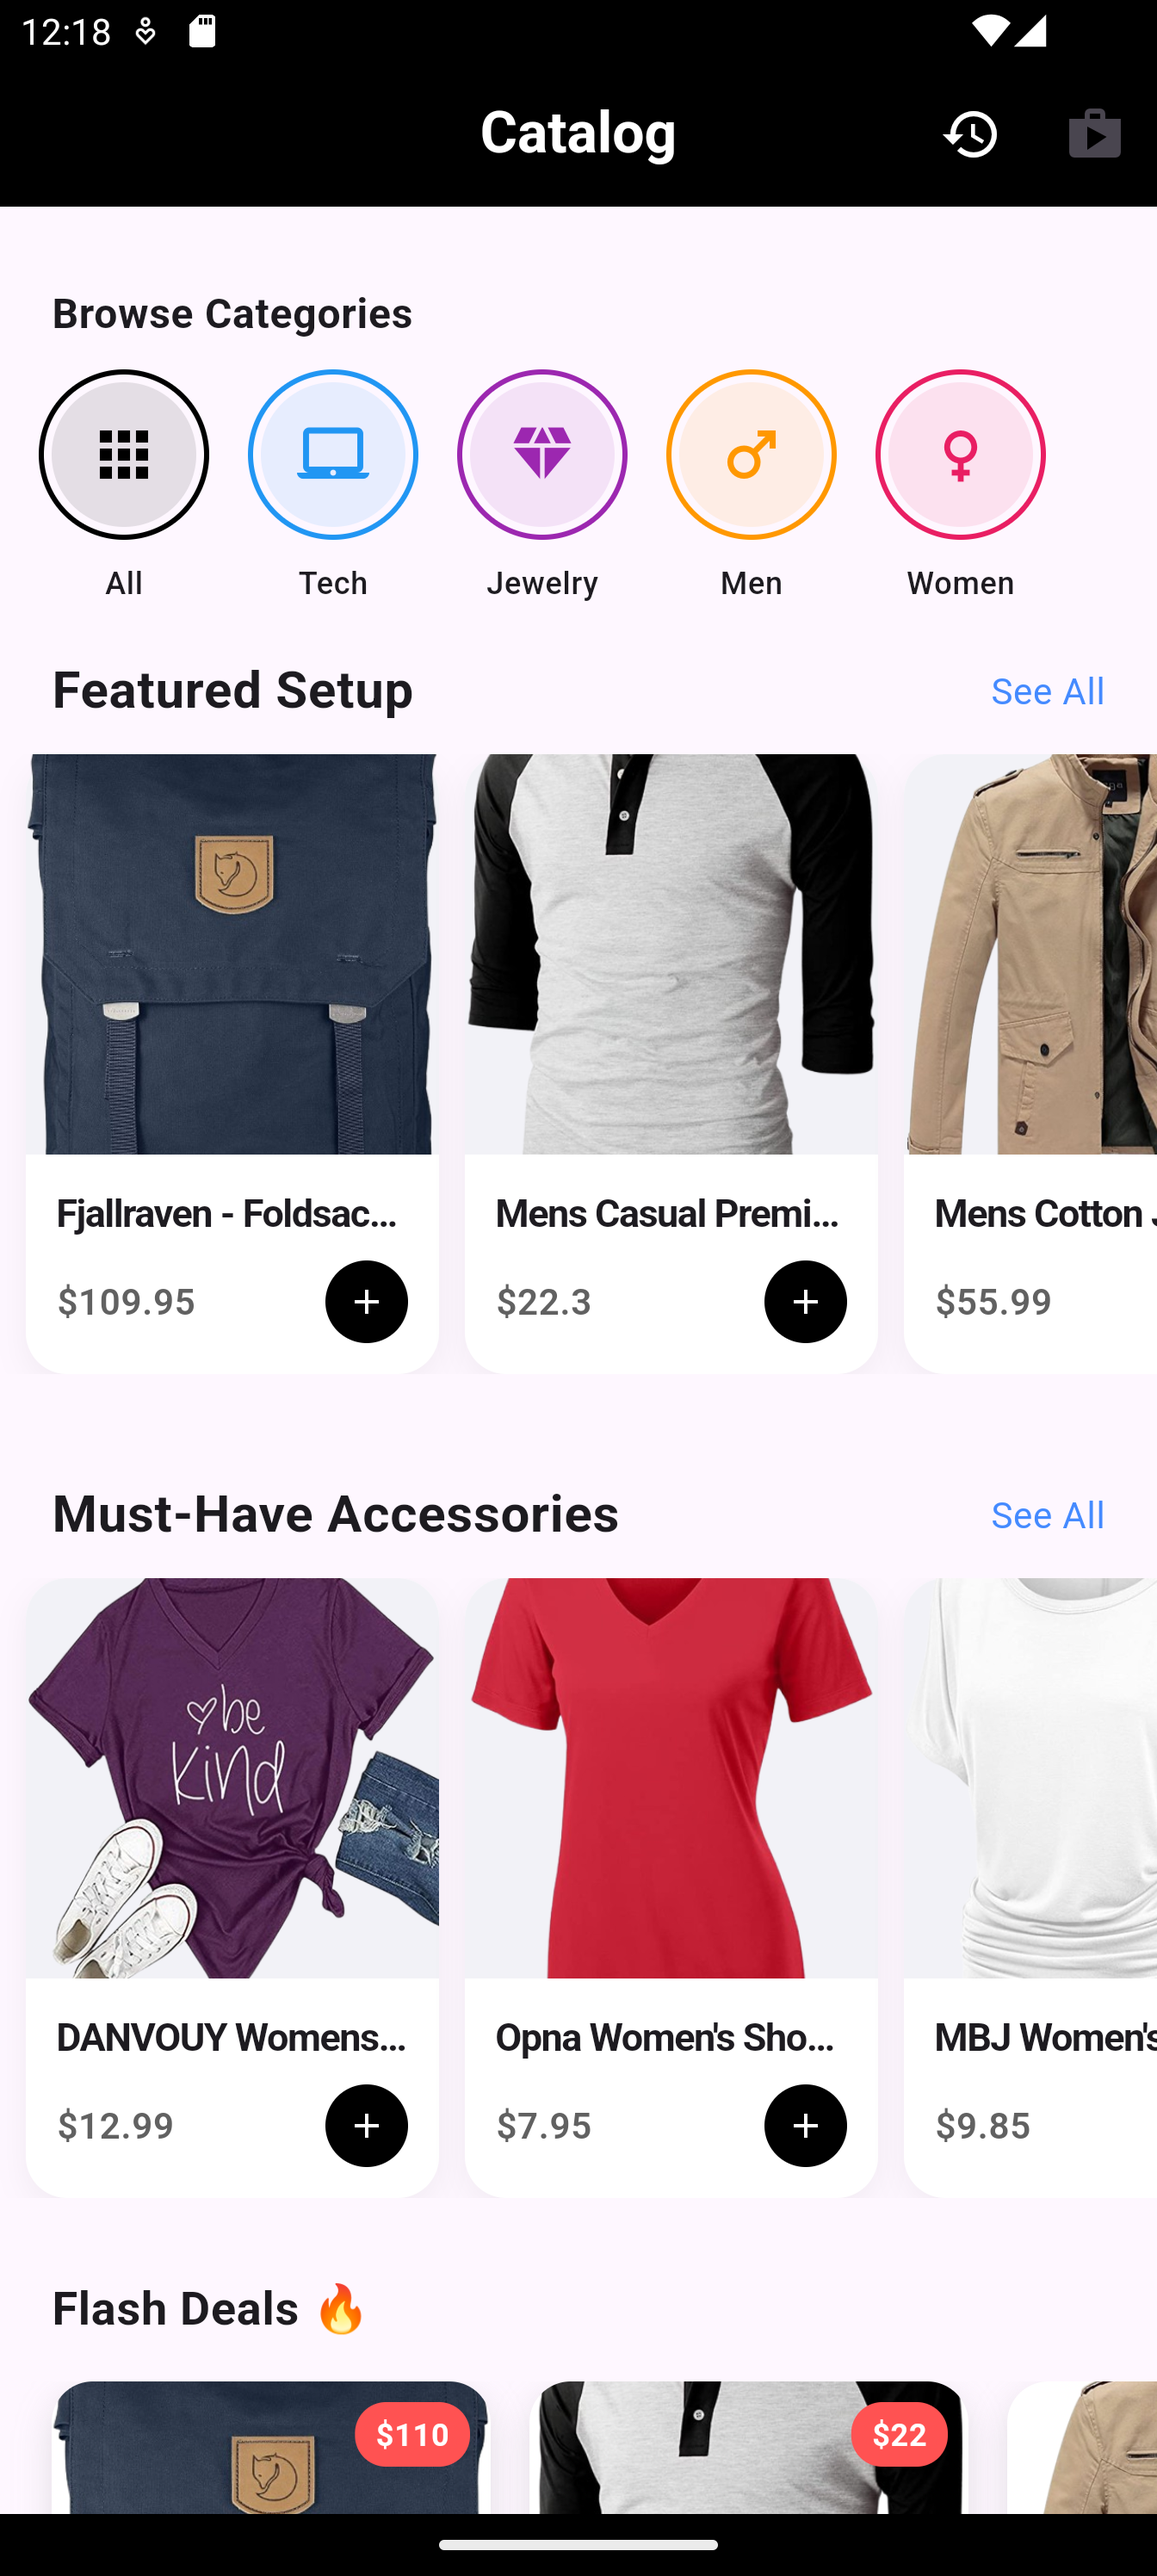
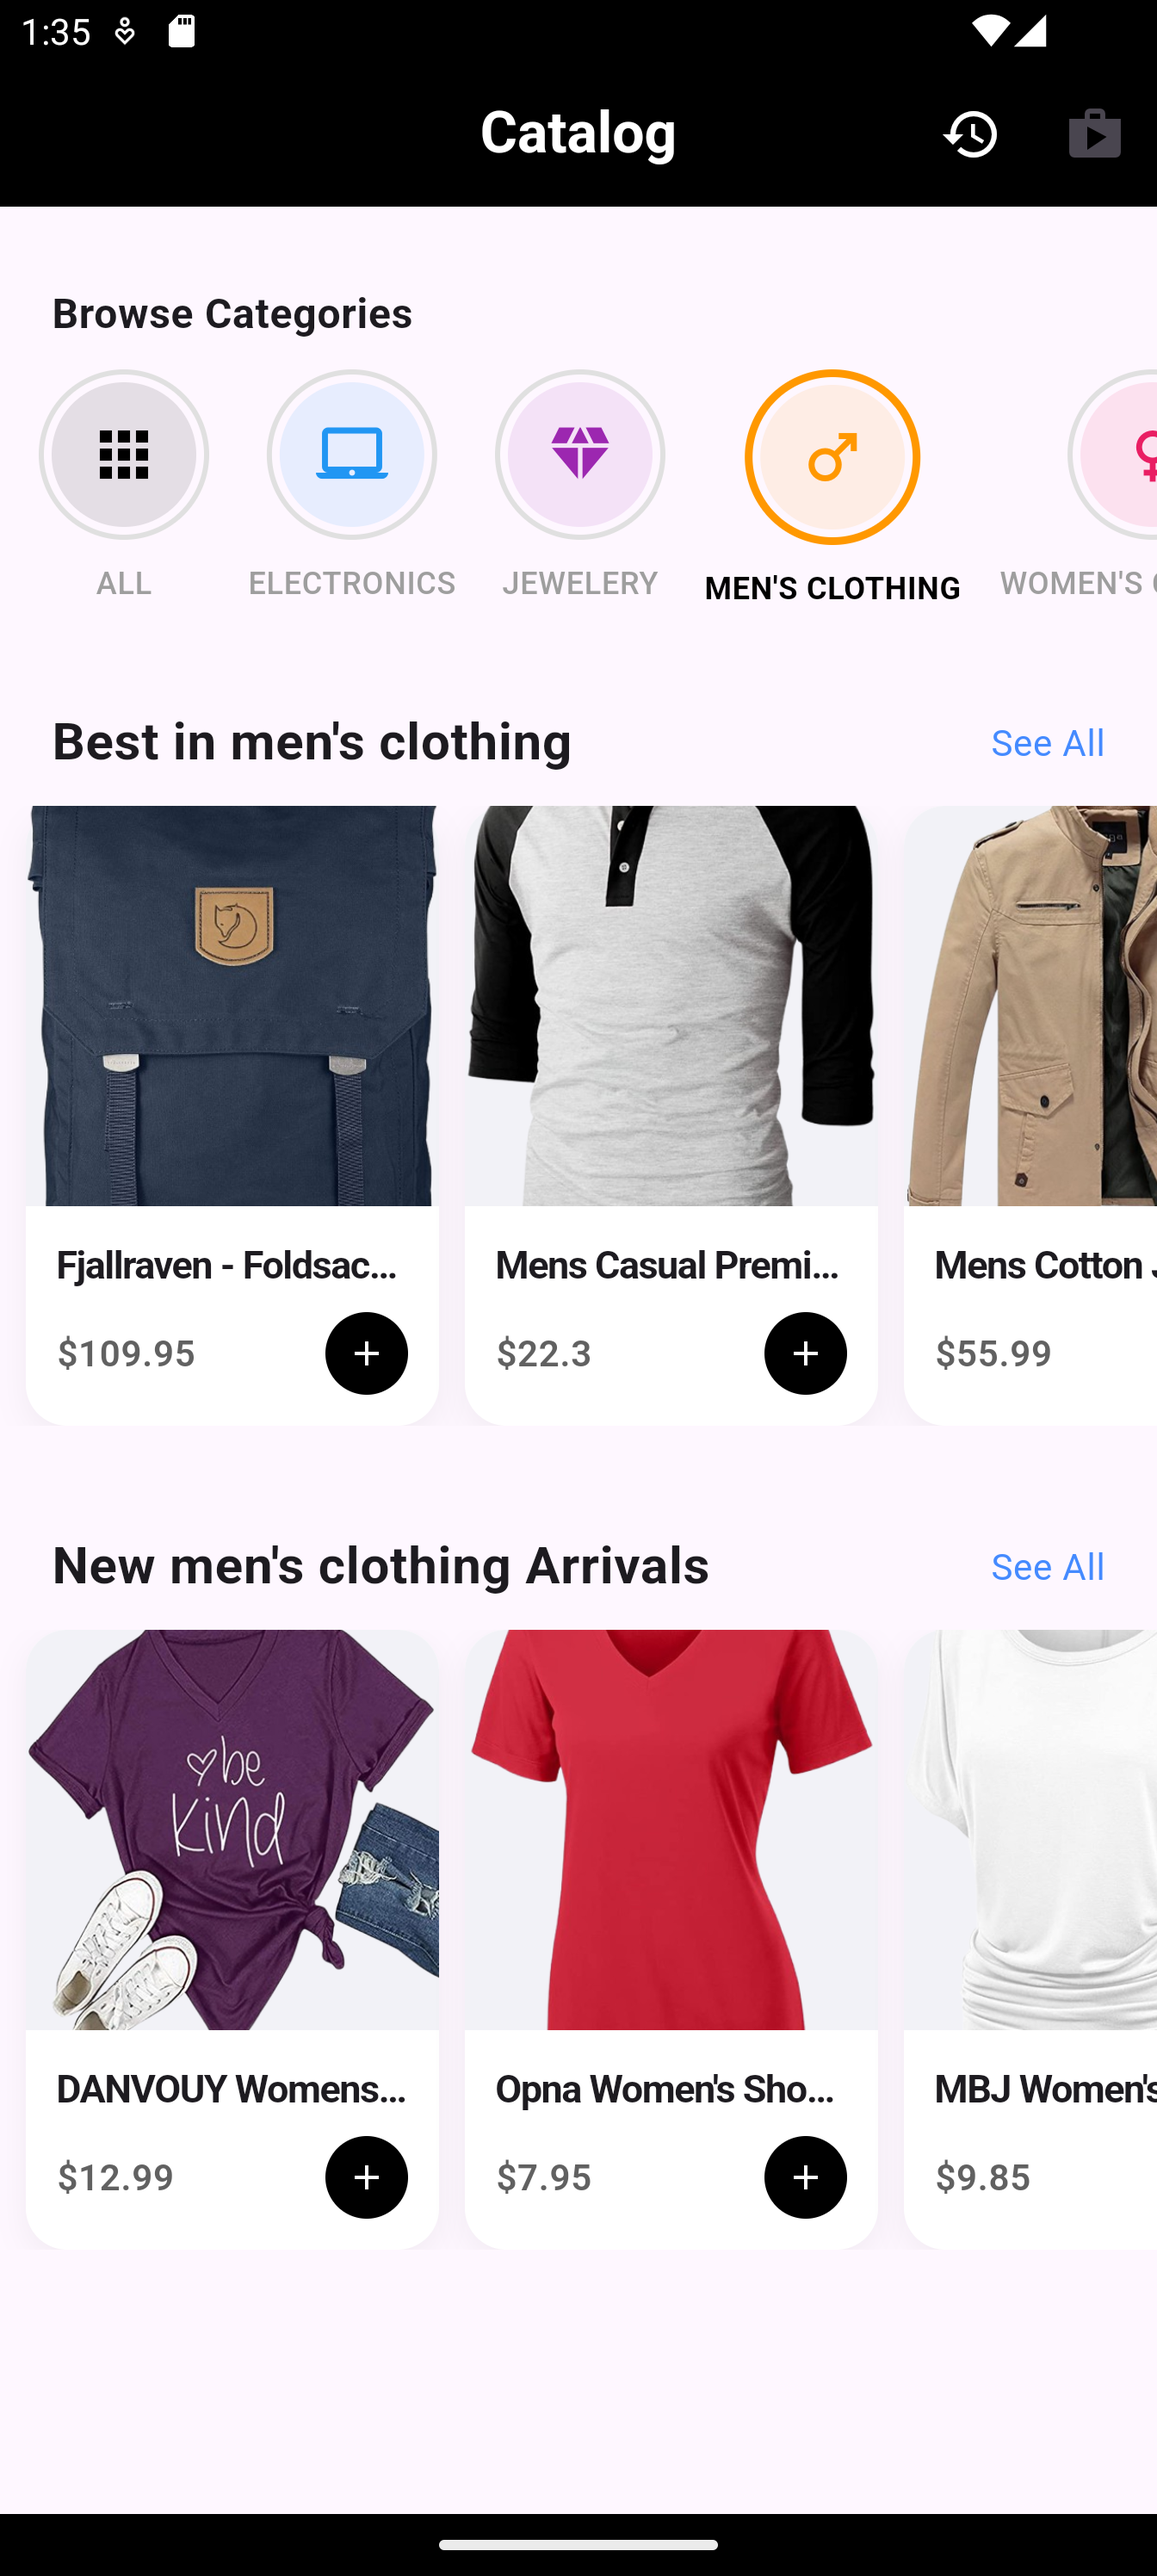
UI Improvements - New Category Section

diff --git a/lib/widgets/category_rail.dart b/lib/widgets/category_rail.dart
@@ -1,20 +1,26 @@
 import 'package:flutter/material.dart';
 
 class CategoryRail extends StatelessWidget {
-  const CategoryRail({super.key});
+  final String selectedCategory;
+  final Function(String) onCategorySelected;
+
+  const CategoryRail({
+    super.key,
+    required this.selectedCategory,
+    required this.onCategorySelected,
+  });
 
   final List<Map<String, dynamic>> categories = const [
     {"name": "All", "icon": Icons.apps, "color": Colors.black},
-    {"name": "Tech", "icon": Icons.laptop_mac, "color": Colors.blue},
-    {"name": "Jewelry", "icon": Icons.diamond, "color": Colors.purple},
-    {"name": "Men", "icon": Icons.male, "color": Colors.orange},
-    {"name": "Women", "icon": Icons.female, "color": Colors.pink},
+    {"name": "electronics", "icon": Icons.laptop_mac, "color": Colors.blue},
+    {"name": "jewelery", "icon": Icons.diamond, "color": Colors.purple},
+    {"name": "men's clothing", "icon": Icons.male, "color": Colors.orange},
+    {"name": "women's clothing", "icon": Icons.female, "color": Colors.pink},
   ];
 
   @override
   Widget build(BuildContext context) {
     return Column(
-      mainAxisAlignment: MainAxisAlignment.spaceEvenly,
       crossAxisAlignment: CrossAxisAlignment.start,
       children: [
         const Padding(
@@ -24,7 +30,6 @@ class CategoryRail extends StatelessWidget {
             style: TextStyle(fontSize: 16, fontWeight: FontWeight.bold),
           ),
         ),
-
         SizedBox(
           height: 100,
           child: ListView.builder(
@@ -33,32 +38,50 @@ class CategoryRail extends StatelessWidget {
             itemCount: categories.length,
             itemBuilder: (context, index) {
               final cat = categories[index];
-              return Padding(
-                padding: const EdgeInsets.only(right: 15),
-                child: Column(
-                  children: [
-                    Container(
-                      padding: const EdgeInsets.all(3),
-                      decoration: BoxDecoration(
-                        shape: BoxShape.circle,
-                        border: Border.all(color: cat['color'], width: 2),
-                      ),
-                      child: CircleAvatar(
-                        radius: 28,
-                        backgroundColor: cat['color'].withOpacity(0.1),
-                        child: Icon(cat['icon'], color: cat['color'], size: 28),
-                      ),
-                    ),
-                    const SizedBox(height: 8),
+              final isSelected = selectedCategory == cat['name'];
 
-                    Text(
-                      cat['name'],
-                      style: const TextStyle(
-                        fontSize: 12,
-                        fontWeight: FontWeight.w500,
+              return GestureDetector(
+                onTap: () => onCategorySelected(cat['name']),
+                child: Padding(
+                  padding: const EdgeInsets.only(right: 15),
+                  child: Column(
+                    children: [
+                      AnimatedContainer(
+                        duration: const Duration(milliseconds: 300),
+                        padding: const EdgeInsets.all(3),
+                        decoration: BoxDecoration(
+                          shape: BoxShape.circle,
+
+                          border: Border.all(
+                            color:
+                                isSelected
+                                    ? cat['color']
+                                    : Colors.grey.shade300,
+                            width: isSelected ? 3 : 2,
+                          ),
+                        ),
+                        child: CircleAvatar(
+                          radius: 28,
+                          backgroundColor: cat['color'].withOpacity(0.1),
+                          child: Icon(
+                            cat['icon'],
+                            color: cat['color'],
+                            size: 28,
+                          ),
+                        ),
                       ),
-                    ),
-                  ],
+                      const SizedBox(height: 8),
+                      Text(
+                        cat['name'].toString().toUpperCase(),
+                        style: TextStyle(
+                          fontSize: 12,
+                          fontWeight:
+                              isSelected ? FontWeight.bold : FontWeight.w500,
+                          color: isSelected ? Colors.black : Colors.grey,
+                        ),
+                      ),
+                    ],
+                  ),
                 ),
               );
             },

diff --git a/lib/widgets/flash_sale_section.dart b/lib/widgets/flash_sale_section.dart
@@ -16,7 +16,6 @@ class FlashSaleSection extends StatelessWidget {
     return Column(
       crossAxisAlignment: CrossAxisAlignment.start,
       children: [
-        // TITLE
         Padding(
           padding: const EdgeInsets.symmetric(horizontal: 20),
           child: Text(
@@ -26,7 +25,6 @@ class FlashSaleSection extends StatelessWidget {
         ),
         const SizedBox(height: 15),
 
-        // LIST
         SizedBox(
           height: 280,
           child: ListView.builder(
@@ -36,9 +34,8 @@ class FlashSaleSection extends StatelessWidget {
             itemBuilder: (context, index) {
               final product = products[index];
 
-              // THE CARD
               return Container(
-                width: 170, // <--- 1. FIXED WIDTH ADDED
+                width: 170,
                 margin: const EdgeInsets.only(right: 15, bottom: 10),
                 decoration: BoxDecoration(
                   color: Colors.white,
@@ -56,7 +53,6 @@ class FlashSaleSection extends StatelessWidget {
                   child: Column(
                     crossAxisAlignment: CrossAxisAlignment.start,
                     children: [
-                      // IMAGE & PRICE
                       Stack(
                         children: [
                           Image.network(
@@ -95,15 +91,12 @@ class FlashSaleSection extends StatelessWidget {
                         ],
                       ),
 
-                      // 2. TEXT & BUTTON (Wrapped in Expanded)
                       Expanded(
-                        // <--- 2. THE FIX: Forces this section to fill the remaining space
                         child: Padding(
                           padding: const EdgeInsets.all(12),
                           child: Column(
                             crossAxisAlignment: CrossAxisAlignment.start,
                             children: [
-                              // Product Name
                               Text(
                                 product.name,
                                 maxLines: 2,
@@ -113,8 +106,8 @@ class FlashSaleSection extends StatelessWidget {
                                 ),
                               ),
 
-                              const Spacer(), // <--- Now Spacer is happy because Expanded gave it limits!
-                              // Row: Flash Text + Green Button
+                              const Spacer(),
+
                               Row(
                                 mainAxisAlignment:
                                     MainAxisAlignment.spaceBetween,
@@ -128,7 +121,6 @@ class FlashSaleSection extends StatelessWidget {
                                     ),
                                   ),
 
-                                  // THE BUY BUTTON
                                   Container(
                                     height: 35,
                                     width: 35,
@@ -143,9 +135,7 @@ class FlashSaleSection extends StatelessWidget {
                                         color: Colors.white,
                                         size: 20,
                                       ),
-                                      onPressed: (
-                                        
-                                      ) {
+                                      onPressed: () {
                                         print("Added ${product.name}");
                                       },
                                     ),

diff --git a/lib/screens/catalog_screen.dart b/lib/screens/catalog_screen.dart
@@ -1,9 +1,8 @@
 import 'package:cart_app/cubit/catalog_cubit.dart';
-import 'package:cart_app/models/products.dart';
 import 'package:cart_app/screens/home_screen.dart';
 import 'package:cart_app/screens/order_histor_screen.dart';
 import 'package:cart_app/widgets/category_rail.dart';
-import 'package:cart_app/widgets/flasg_sale_section.dart';
+import 'package:cart_app/widgets/flash_sale_section.dart';
 import 'package:cart_app/widgets/product_section.dart';
 import 'package:flutter/material.dart';
 import 'package:flutter_bloc/flutter_bloc.dart';
@@ -34,11 +33,11 @@ class CatalogScreen extends StatelessWidget {
                 MaterialPageRoute(builder: (context) => HomeScreen()),
               );
             },
-            icon: Icon(Icons.shop),
+            icon: const Icon(Icons.shop),
           ),
         ],
         backgroundColor: Colors.black,
-        title: Text(
+        title: const Text(
           "Catalog",
           style: TextStyle(color: Colors.white, fontWeight: FontWeight.bold),
         ),
@@ -46,21 +45,51 @@ class CatalogScreen extends StatelessWidget {
       ),
       body: BlocBuilder<CatalogCubit, CatalogState>(
         builder: (context, state) {
+          if (state.isLoading) {
+            return const Center(child: CircularProgressIndicator());
+          }
+
           return ListView(
             padding: const EdgeInsets.only(bottom: 40, top: 20),
             children: [
-              CategoryRail(),
-              ProductSection(title: "Featured Setup", products: state.products),
-              const SizedBox(height: 30),
-              ProductSection(
-                title: "Must-Have Accessories",
-                products: state.products.reversed.toList(),
+              CategoryRail(
+                selectedCategory: state.selectedCategory,
+                onCategorySelected: (categoryName) {
+                  context.read<CatalogCubit>().selectCategory(categoryName);
+                },
               ),
-              const SizedBox(height: 30),
-              FlashSaleSection(
-                title: "Flash Deals 🔥",
-                products: state.products.take(3).toList(),
-              ),
+
+              const SizedBox(height: 20),
+
+              if (state.selectedCategory == "All") ...[
+                ProductSection(
+                  title: "Featured Setup",
+                  products: state.products,
+                ),
+                const SizedBox(height: 30),
+                ProductSection(
+                  title: "Must-Have Accessories",
+                  products: state.products.reversed.toList(),
+                ),
+                const SizedBox(height: 30),
+                FlashSaleSection(
+                  title: "Flash Deals 🔥",
+                  products: state.products.take(3).toList(),
+                ),
+              ] else ...[
+                ProductSection(
+                  title: "Best in ${state.selectedCategory}",
+                  products: state.products,
+                ),
+
+                const SizedBox(height: 30),
+
+                ProductSection(
+                  title: "New ${state.selectedCategory} Arrivals",
+
+                  products: state.products.reversed.toList(),
+                ),
+              ],
             ],
           );
         },

diff --git a/lib/cubit/catalog_cubit.dart b/lib/cubit/catalog_cubit.dart
@@ -4,10 +4,26 @@ import 'package:flutter_bloc/flutter_bloc.dart';
 
 class CatalogState {
   final List<Products> products;
-
   final bool isLoading;
+  final String selectedCategory;
 
-  CatalogState(this.products, {this.isLoading = false});
+  CatalogState(
+    this.products, {
+    this.isLoading = false,
+    this.selectedCategory = "All",
+  });
+
+  CatalogState copyWith({
+    List<Products>? products,
+    bool? isLoading,
+    String? selectedCategory,
+  }) {
+    return CatalogState(
+      products ?? this.products, 
+      isLoading: isLoading ?? this.isLoading,
+      selectedCategory: selectedCategory ?? this.selectedCategory,
+    );
+  }
 }
 
 class CatalogCubit extends Cubit<CatalogState> {
@@ -21,9 +37,20 @@ class CatalogCubit extends Cubit<CatalogState> {
   void loadProducts() async {
     try {
       _allProducts = await _api.getProducts();
-      emit(CatalogState(_allProducts,isLoading: false));
+      emit(CatalogState(_allProducts, isLoading: false));
     } catch (e) {
       emit(CatalogState([], isLoading: true));
     }
   }
+
+  
+void selectCategory(String category) {
+
+    emit(state.copyWith(
+      selectedCategory: category,
+      products: _allProducts, 
+    ));
+  }
+
+  
 }

diff --git a/lib/screens/order_histor_screen.dart b/lib/screens/order_histor_screen.dart
@@ -1,7 +1,7 @@
 import 'package:cart_app/models/order.dart';
 import 'package:flutter/material.dart';
 import 'package:hive_flutter/hive_flutter.dart';
-import 'package:intl/intl.dart'; 
+
 
 class OrderHistoryScreen extends StatelessWidget {
   const OrderHistoryScreen({super.key});
